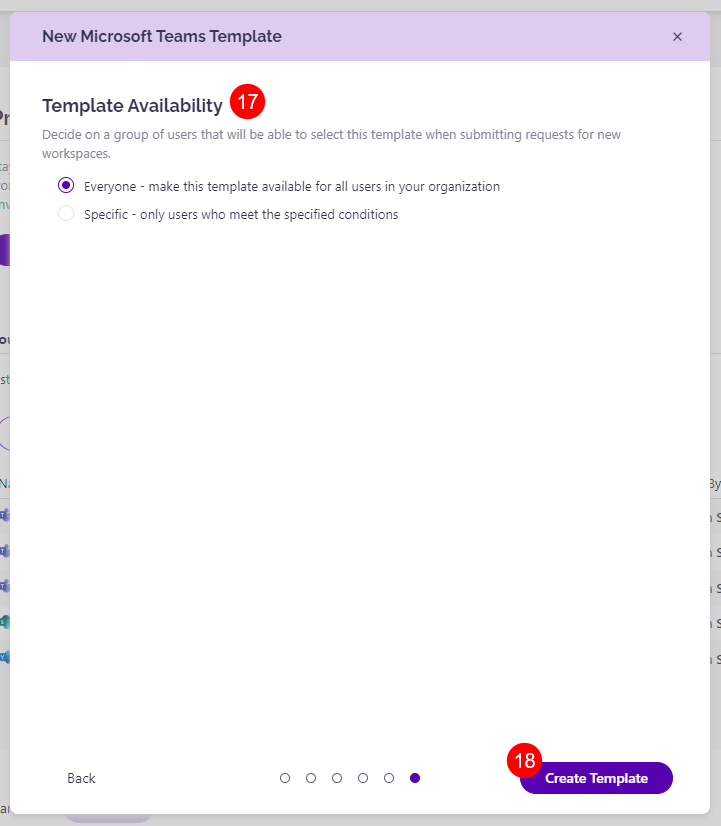
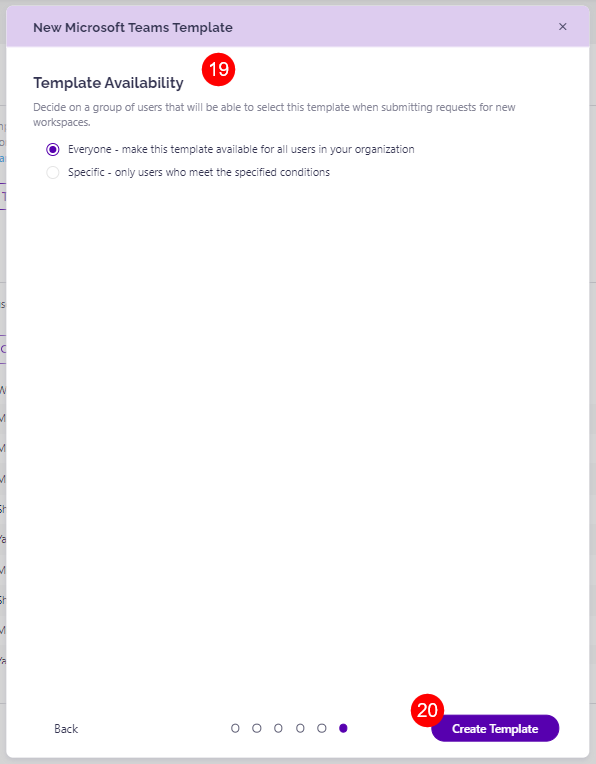
new article provisioning

Changed region(s): [[0.0, 0.0, 1.0, 1.0]]

diff --git a/governance-and-automation/provisioning/templates.md b/governance-and-automation/provisioning/templates.md
@@ -1,8 +1,8 @@
 ---
 description: >-
-  Syskit Point templates help you define which types of workspaces your
-  end-users can request and create. Each template contains properties and rules
-  that guide the creation process and ensure all works
+ Syskit Point templates help you define which types of workspaces your
+ end-users can request and create. Each template contains properties and rules
+ that guide the creation process and ensure all works
 ---
 
 # Templates
@@ -20,9 +20,9 @@ By default, Syskit Point provides **three templates (2)**.
 Available actions for these templates are listed under the **Manage (3)** column and allow you to:
 
 * **Edit (4)**
-  * Use it to review and modify how the default template is configured - Syskit Point allows you to change any setting available to fit your needs.
+  * Use it to review and modify how the default template is configured - Syskit Point allows you to change any setting available to fit your needs.
 * **Delete (5)**
-  * If you do not wish to use these default templates or make them available for your end-users, make sure to delete them from this list.
+  * If you do not wish to use these default templates or make them available for your end-users, make sure to delete them from this list.
 
 You can create custom templates by clicking the **New Template (6)** button.
 
@@ -32,7 +32,7 @@ You can create custom templates by clicking the **New Template (6)** button.
 
 To create your custom template, click the **New Template** button.
 
-First, choose the type of workspace you want to create the template for.
+First, choose the type of workspace for which you want to create the template.
 
 Templates can be created for the following workspaces:
 
@@ -53,100 +53,114 @@ When creating a template for Microsoft Teams, you will need to define the follow
 * **Name (1)** – A name you provide here will be used as a template name that is visible to your users
 * **Description (2)** – Describe in short when to use this template; end-users will see it when requesting a new workspace using a list of templates
 * **Microsoft template ID (3)** – This property is used to predefine apps, channels, and tabs that should be created for new workspaces that use this Syskit Point template.
-  * If you leave this property empty, default apps or channels will not be created; it will be a blank MS team.
-  *   Syskit Point integrates with team templates you have created in the **Microsoft 365 Teams admin center**. When you enter a team template ID, Syskit Point will create apps, tabs, and channels you defined there.
+  * If you leave this property empty, default apps or channels will not be created; it will be a blank MS team.
+  * Syskit Point integrates with team templates you have created in the **Microsoft 365 Teams admin center**. When you enter a team template ID, Syskit Point will create apps, tabs, and channels you defined there.
 
-      To review currently available templates in your M365 tenant and use them in Syskit Point:
+ To review currently available templates in your M365 tenant and use them in Syskit Point:
 
-      1. Navigate to the Microsoft Teams [admin center](https://admin.teams.microsoft.com/)
-      2. Under the tab Teams, select **Team templates**
-      3. Click the name of the template to review the apps and channels they include
-      4. Copy the Template ID and paste it into the Syskit wizard
+      1. Navigate to the Microsoft Teams [admin center](https://admin.teams.microsoft.com/)
+      2. Under the tab Teams, select **Team templates**
+      3. Click the name of the template to review the apps and channels they include
+      4. Copy the Template ID and paste it into the Syskit wizard
 
-      To create a brand-new Teams template in the admin center, follow the [Microsoft guide](https://docs.microsoft.com/en-us/microsoftteams/create-a-team-template).
+ To create a brand-new Teams template in the admin center, follow the [Microsoft guide](https://docs.microsoft.com/en-us/microsoftteams/create-a-team-template).
 * **Privacy (4)** – set if workspaces created using this template will be public or private. You can leave this decision to your end-users as well.
 
 ![New Teams Template Dialog - Step 1](../../.gitbook/assets/provisioning-templates-teams-dialog-step-1.png)
 
 * **Owners (5)** – allows multiple options:
-  * Predefine owners that are always added to this type of workspace
-  * Allow end-users to specify additional ones in addition to predefined users
-  * Leave this option altogether to the end-user who is requesting a new workspace
-*   **Members (6)** – allows multiple options:
+  * Predefine owners that are always added to this type of workspace
+  * Allow end-users to specify additional ones in addition to predefined users
+  * Leave this option altogether to the end-user who is requesting a new workspace
+*   **Members (6)** – allows multiple options:
 
-    * Predefine members that are always added to this type of workspace
-    * Allow end-users to specify additional ones in addition to predefined users
-    * Leave this option completely to the end user who is requesting a new workspace
+    * Predefine members that are always added to this type of workspace
+    * Allow end-users to specify additional ones in addition to predefined users
+    * Leave this option completely to the end user who is requesting a new workspace
 
 ![New Teams Template Dialog - Step 2](../../.gitbook/assets/provisioning-templates-teams-dialog-step-2.png)
 
-*   **Sharing Settings (7)** - choose from available options:
+*   **Sharing Settings (7)** - choose from available options:
 
-    * Anyone
-    * New and existing guests
-    * Existing guests only
-    * Only people in your organization
+    * Anyone
+    * New and existing guests
+    * Existing guests only
+    * Only people in your organization
 
-    Please note that available options depend on defined tenant-level external sharing policies. For example, if sharing files and folders using links that don't require sign-in is not allowed, the Anyone option will not be enabled.
+ Please note that available options depend on defined tenant-level external sharing policies. For example, if sharing files and folders using links that don't require sign-in is not allowed, the Anyone option will not be enabled.
 * **Sharing Permission (8)** - helps control the way things on the site can be shared. Choose between:
-  * Site owners and members can share files, folders, and the site. People with edit permission can share files and folders.
-  * Site owners, members, and people with edit permission can share files and folders, but only owners can share the site.
-  * Only site owners can share files, folders, and the site.
+  * Site owners and members can share files, folders, and the site. People with edit permission can share files and folders.
+  * Site owners, members, and people with edit permission can share files and folders, but only owners can share the site.
+  * Only site owners can share files, folders, and the site.
 
 ![New Teams Template Dialog - Step 3](../../.gitbook/assets/provisioning-templates-teams-dialog-step-3.png)
 
 * **Allow Access Requests (9)** - decides who receives access requests for all workspaces created from the template. The options are:
-  * Owners
-  * Specific user(s)
-    * If a specific user(s) is selected, the name of at least one specific user needs to be entered in the provided space.
+  * Owners
+  * Specific user(s)
+    * If a specific user(s) is selected, the name of at least one specific user needs to be entered in the provided space.
 * **Sensitivity Label (10)** - choose from available sensitivity labels available in your tenant to define which are applied on all workspaces created from the template.
-  * To use sensitivity labels in Syskit Point, make sure to set up your environment as described in the [following article](enable-sensitivity-labels.md).
+  * To use sensitivity labels in Syskit Point, make sure to set up your environment as described in the [following article](enable-sensitivity-labels.md).
 * **Terms & Conditions (11)** - define the terms & conditions text displayed to end-users when they request a new workspace.
 * **Custom Metadata (12)** - custom metadata provides expanded information collected and included in reports. Set up which fields users will need to input or select for the custom metadata when using the template.
-  * If no custom metadata was created, it can be set up directly in the form by selecting **Create New Custom Field**.
-  * For more information on managing and creating custom metadata, take a look at [this article](../manage-custom-metadata.md).
+  * If no custom metadata was created, it can be set up directly in the form by selecting **Create New Custom Field**.
+  * For more information on managing and creating custom metadata, take a look at [this article](../manage-custom-metadata.md).
 
 ![New Teams Template Dialog - Step 4](../../.gitbook/assets/provisioning-templates-teams-dialog-step-4.png)
 
-* **Naming Rule (13)** – predefined suffix or prefix that will be added to the name of a workspace created using this template.
-  * For example, setting the prefix to **Marketing** results that each workspace created from this template will be named in a form **Marketing – (Request Name)**
-  * **Select the checkbox Apply naming rule to workspace URL and e-mail** to have **all workspaces created from this template have the same URL based on the Name Prefix and Name Suffix** you entered into the form
-*   **Approval process (14)** – define who is responsible for approving the requests using this template.
+* **Workspace Name Rule (13)** – predefined suffix or prefix that will be added to the name of a workspace created using this template.
+  * For example, setting the prefix to **Marketing** results that each workspace created from this template will be named in a form **Marketing – (Request Name)**
+  * **Select the checkbox Apply naming rule to workspace URL and e-mail** to have **all workspaces created from this template have the same URL based on the Name Prefix and Name Suffix** you entered into the form
+* **Customize URL (14)** - here, you can select how the URL of the workspace is shown when the workspace is shared
+  * Allow end users to edit URL
+    * Selecting this lets workspace owners and end users edit the URL based on their preference
+  * Hide workspace name from URL
+    * Selecting this hides the workspace name from view, which means when the workspace is shared with others instead of the workspace name, the URL consists of randomly generated numbers or letters
+  * Customize URL prefix/suffix
+    * Selecting this gives the ability to change the URL prefix and suffix
+* **Customize E-mail (15)** - with this, you decide how the URL of the workspace is shown when the workspace is mentioned in e-mails sent about it
+  * Hide workspace name from URL
+    * Selecting this hides the workspace name from view, which means when the workspace is included in any e-mails sent by Syskit Point, instead of the workspace name, the URL consists of randomly generated numbers or letters
+  * Customize URL prefix/suffix
+    * Selecting this gives the ability to change the URL prefix and suffix for the e-mail
+* **Approval process (16)** – define who is responsible for approving the requests using this template.
 
-    All requests using this template will need to be approved by specified people before the workspace is created.
+ All requests using this template will need to be approved by specified people before the workspace is created.
 
-    By default, you will see four types of approvals available:
+ By default, you will see four types of approvals available:
 
-    * Manager approval – The manager of the end-users requesting new workspace needs to approve this request
-    * Admin approval – Syskit Point admins need to approve this request
-    * Manager and admin approval – Requires approval from both the manager of the requester and Syskit Point admins
-    * Automatically Approve – Templates using this option don’t require approval. The workspace will be created immediately when the end-user sends a request.
+    * Manager approval – The manager of the end-users requesting new workspace needs to approve this request
+    * Admin approval – Syskit Point admins need to approve this request
+    * Manager and admin approval – Requires approval from both the manager of the requester and Syskit Point admins
+    * Automatically Approve – Templates using this option don’t require approval. The workspace will be created immediately when the end-user sends a request.
 
-    Additionally, you can enable comments for requesters when they request a new workspace in this section.
+ Additionally, you can enable comments for requesters when they request a new workspace in this section.
 
-    Read more about Approval processes and how to create custom ones in this [article](approval-processes.md).
-*   **Governance policies (15)** – predefine a set of rules to be applied to the workspace automatically upon creation. Currently, available policies are:
+ Read more about Approval processes and how to create custom ones in this [article](approval-processes.md).
+*  **Governance policies (17)** – predefine a set of rules to be applied to the workspace automatically upon creation. Currently, available policies are:
 
-    * Access reviews
-    * Maximum number of owners
-    * Minimum number of owners
-    * Orphaned Workspaces
+    * Access reviews
+    * Maximum number of owners
+    * Minimum number of owners
+    * Orphaned Workspaces
 
-    Read more about setting up these governance policies and customizing them to your needs [here](../automated-workflows/set-up-policies.md).
-* **Outlook & Email Settings (16)** – define if the newly created workspace will:
-  * Be **hidden** from your organization's global address list
-  * Send a **welcome e-mail**
-  * If a **service account is added to the template**, two additional options are available:
-    * Allow external senders to e-mail this group
-    * Send copies of group conversations and events to group members
+ Read more about setting up these governance policies and customizing them to your needs [here](../automated-workflows/set-up-policies.md).
+* **Outlook & Email Settings (18)** – define if the newly created workspace will:
+  * Be **hidden** from your organization's global address list
+  * Send a **welcome e-mail**
+  * If a **service account is added to the template**, two additional options are available:
+    * Allow external senders to e-mail this group
+    * Send copies of group conversations and events to group members
 
 ![New Teams Template Dialog - Step 5](../../.gitbook/assets/provisioning-templates-teams-dialog-step-5.png)
 
-* **Template availability (17)** – defines the group of users that are able to select the template when submitting requests for new workspaces.
-  * Everyone - the template is available to all users in your organization
-  * Specific - the template is available to users that meet specified conditions
-    * If selected, the condition type needs to be selected from the dropdown menu.
-* When everything has been finalized click **Create Template (18)**.
+![New Teams Template Dialog - Step 5 - Part 2](../../.gitbook/assets/provisioning-templates-teams-dialog-step-5-part-2.png)
+
+* **Template availability (19)** – defines the group of users that are able to select the template when submitting requests for new workspaces.
+  * Everyone - the template is available to all users in your organization
+  * Specific - the template is available to users that meet specified conditions
+    * If selected, the condition type needs to be selected from the dropdown menu.
+* When everything has been finalized click **Create Template (20)**.
 
 ![New Teams Template Dialog - Step 6](../../.gitbook/assets/provisioning-templates-teams-dialog-step-6.png)
 
@@ -158,29 +172,41 @@ When creating a SharePoint Site template, there are a couple of differences comp
 
 * **Site Template** - you can choose the site template for the SharePoint Site workspace created from this template
 * **Primary Site Collection Admin** – allows multiple options:
-  * Predefine the primary site collection admin
-  * Allow end-users to specify the primary site collection admin
+  * Predefine the primary site collection admin
+  * Allow end-users to specify the primary site collection admin
 * **Additional Site Collection Admins** – allows multiple options:
-  * Predefine site collection admins that are always added to this type of workspace
-  * Allow end-users to specify additional ones in addition to predefined admins
-  * Leave this option altogether to the end-user who is requesting a new workspace
+  * Predefine site collection admins that are always added to this type of workspace
+  * Allow end-users to specify additional ones in addition to predefined admins
+  * Leave this option altogether to the end-user who is requesting a new workspace
 * **Site Members** – allows multiple options:
-  * Predefine site members that are always added to this type of workspace
-  * Allow end-users to specify additional members in addition to predefined members
-  * Leave this option altogether to the end-user who is requesting a new workspace
+  * Predefine site members that are always added to this type of workspace
+  * Allow end-users to specify additional members in addition to predefined members
+  * Leave this option altogether to the end-user who is requesting a new workspace
+
+{% hint style="information" %}
+
+**Please note**: SharePoint Site templates do not have a Customize E-mail option.
+
+{% endhint %}
 
 ### Yammer Community Template
 
 When creating a Yammer Community template, there are a couple of differences compared to the Microsoft Teams template.
 
 * **Community Admins** – allows multiple options:
-  * Predefine community admins that are always added to this type of workspace
-  * Allow end-users to specify additional ones in addition to predefined community admins
-  * Leave this option altogether to the end-user who is requesting a new workspace
+  * Predefine community admins that are always added to this type of workspace
+  * Allow end-users to specify additional ones in addition to predefined community admins
+  * Leave this option altogether to the end-user who is requesting a new workspace
 * **Community Members**
-  * Predefine community members that are always added to this type of workspace
-  * Allow end-users to specify additional community members in addition to predefined community members
-  * Leave this option altogether to the end-user who is requesting a new workspace
+  * Predefine community members that are always added to this type of workspace
+  * Allow end-users to specify additional community members in addition to predefined community members
+  * Leave this option altogether to the end-user who is requesting a new workspace
+
+{% hint style="information" %}
+
+**Please note:** Yammer templates do not have URL & E-mail customization options.
+
+{% endhint %}
 
 ### Microsoft 365 Group Template
 

diff --git a/governance-and-automation/provisioning/hide-workspace-name.md b/governance-and-automation/provisioning/hide-workspace-name.md
@@ -1,0 +1,53 @@
+---
+description: This article explains how to customize and hide the name of your workspace in URLs and e-mails.
+---
+
+# Customize Your Workspace Name
+
+In the current collaborative work environment, **protecting sensitive information** is more important than ever. Syskit Point is here to help you ensure your **data is safe and secure**. Another effort to do so comes in the form of your newest feature: the ability to **hide the names of workspaces from the URL when sharing them or sending e-mails**. 
+
+Instead of displaying the actual workspace names, which might contain sensitive or easily identifiable information, this feature replaces the names with randomized numbers or letters. This approach helps **maintain confidentiality and mitigates the risk of unintentional information exposure**.
+
+For example, your project may be prone to changes, and the name might be switched out. This way, you can easily change the name, and no one is likely to notice or get confused by the previous name. Or, perhaps, you're working on a new, important project within the company, and you need some outside collaborators to join the cause. However, you want to keep this project secret and lessen the risk of potential leaks. This feature lets you hide the name of the workspace, but you can still share the workspace and its contents with others.  
+
+Here's how to set up a Provisioning template that ensures the name of the workspace is hiden in the URL and e-mails.
+
+## Creating a Provisioning Template
+
+{% hint style="warning" %}
+After upgrading Syskit Point, please make sure to refresh the Microsoft Teams web client to ensure the feature is working correctly.
+{% endhint %}
+
+When creating a [Provisioning template](templates.md), the fifth step in the process shows you the screen where you can customize your:
+
+* URL
+* E-mail
+
+To customize the URL, you can:
+
+* Allow end users to edit URL
+  * Selecting this lets workspace owners and end users edit the URL based on their preference or need
+* Hide workspace name from URL
+   * Selecting this hides the workspace name from view, which means when the workspace is shared with others instead of the workspace name, the URL consists of randomly generated numbers or letters
+* Customize URL prefix/suffix
+   * Selecting this gives the ability to change the URL prefix and suffix
+
+To customize the e-mail, you can:
+
+* Hide workspace name from URL
+  * Selecting this hides the workspace name from view, which means when the workspace is included in any e-mails sent by Syskit Point, instead of the workspace name, the URL consists of randomly generated numbers or letters
+* Customize URL prefix/suffix
+  * Selecting this gives the ability to change the URL prefix and suffix for the e-mail
+
+
+For more details on how to create Provisioning Templates, take a look at the [templates article](../provisioning/templates.md).
+
+
+{% hint style="information" %}
+
+**Please note the following:**
+
+* SharePoint Site templates do not have a Customize E-mail option
+* Yammer templates do not have URL & E-mail customization options
+
+{% endhint %}

diff --git a/SUMMARY.md b/SUMMARY.md
@@ -188,6 +188,7 @@
     * [Approval Processes](governance-and-automation/provisioning/approval-processes.md)
     * [Approve/Reject Requests](governance-and-automation/provisioning/approve-reject-requests.md)
     * [Manage Requests](governance-and-automation/provisioning/manage-requests.md)
+    * [Hide Workspace Name](governance-and-automation/provisioning/hide-workspace-name.md)
   * [Access Requests](governance-and-automation/access-requests/README.md)
     * [Set Up Access Requests](governance-and-automation/access-requests/set-up-access-requests.md)
     * [Create Access Requests](governance-and-automation/access-requests/create-access-requests-policy.md)
